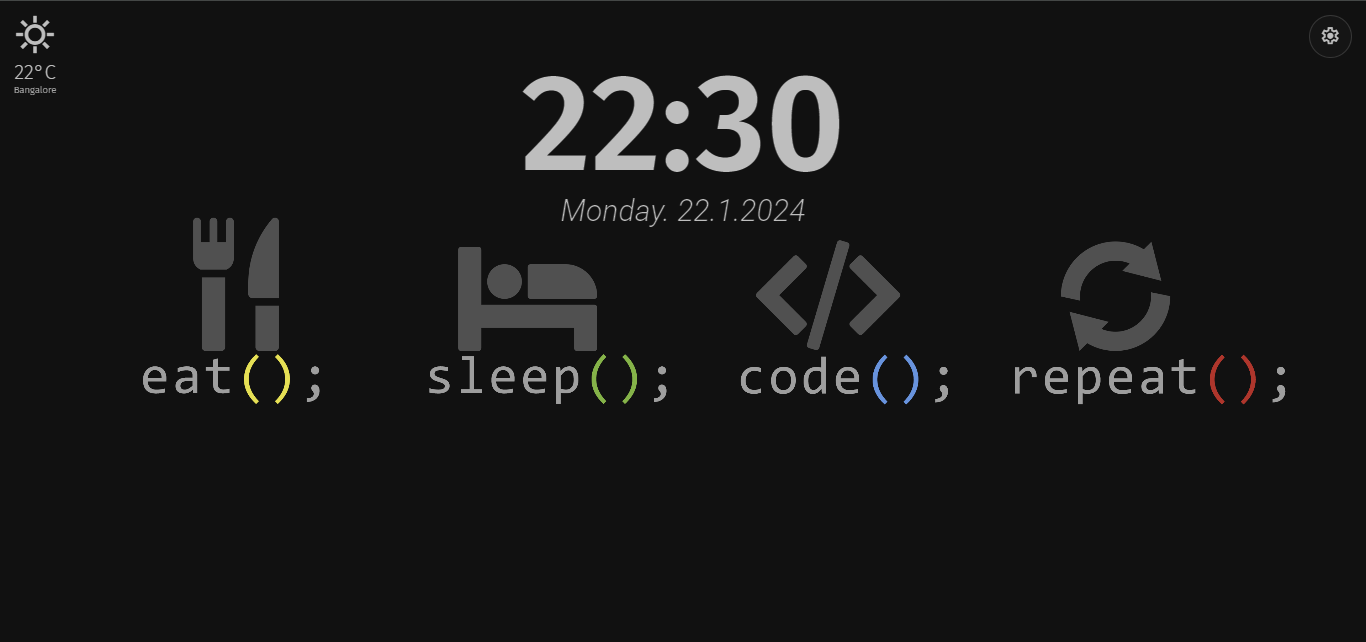
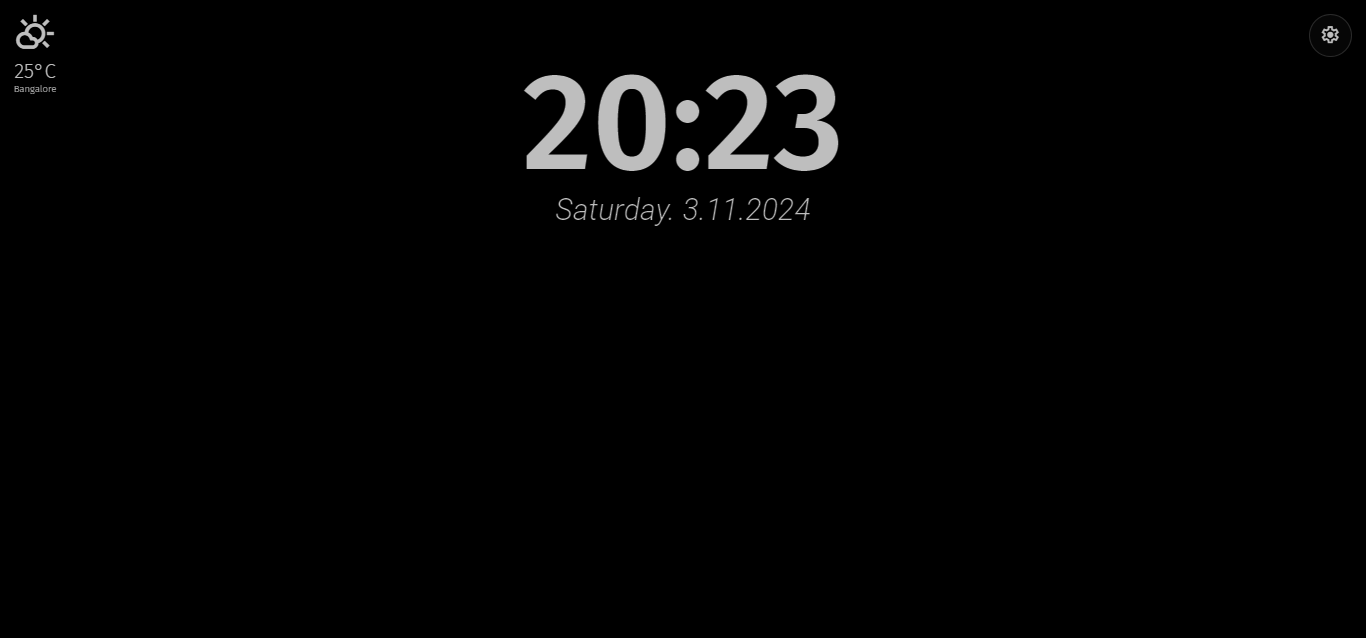
Final commit of v1.10 - Modified default background colour - Added preview images

diff --git a/scripts/shortcutDrawer.js b/scripts/shortcutDrawer.js
@@ -102,58 +102,6 @@ function addShortcutsToBox() {
     );
 }
 
-// deprecated
-// function shortcuts () {
-//     var boxDiv = document.getElementById("box");
-//     chrome.storage.local.get(["shortcuts"]).then((result) => { 
-//         result = result.shortcuts;
-//         if (result.length != 0)
-//             for(var i = 0;i < result.length;i++) {
-//                 var shortcut = document.createElement("div");
-//                 shortcut.setAttribute('style',"max-width:10vw; display:inline-block;")
-//                 var link = document.createElement('a');
-//                 var name = document.createElement('div');
-//                 name.setAttribute("style","margin-top:1.5vw; font-family:FiraExtraLight;")
-//                 name.innerText = result[i]['name']
-//                 var image = document.createElement("img");
-//                 if(online)
-//                     image.setAttribute('src',("https://s2.googleusercontent.com/s2/favicons?domain=" + result[i]['url']));
-//                 image.setAttribute('alt',"");
-//                 link.setAttribute("href",result[i]['url']);
-//                 link.setAttribute("class","button");
-//                 link.appendChild(image);
-//                 shortcut.appendChild(link);
-//                 shortcut.appendChild(name);
-//                 boxDiv.appendChild(shortcut);
-//             } 
-//         else {
-//             var shortcut = document.createElement("div");
-//             shortcut.setAttribute('style',"max-width:10vw; display:inline-block;")
-//             var link = document.createElement('a');
-//             link.setAttribute("href","https://google.com");
-//             link.setAttribute("class","button");
-//             var name = document.createElement('div');
-//             name.setAttribute("style","margin-top:1.5vw; font-family:FiraExtraLight;")
-//             name.innerText = "Google"
-//             if(online) {
-//                 var image = document.createElement("img");
-//                 image.setAttribute('src',("https://s2.googleusercontent.com/s2/favicons?domain=https://google.com"));
-//                 link.appendChild(image);   
-//             }
-//             else {
-//                 var icon = document.createElement("span");
-//                 icon.setAttribute('class',"material-symbols-outlined");
-//                 icon.setAttribute('style',"font-size:1.3vw;");
-//                 icon.innerText = "globe" 
-//                 link.appendChild(icon);   
-//             }
-//             shortcut.appendChild(link);
-//             shortcut.appendChild(name);
-//             boxDiv.appendChild(shortcut);
-//         }
-//     });
-// }
-
 document.addEventListener('mousemove', onMouseUpdate, false);
 document.addEventListener('mouseenter', onMouseUpdate, false);
 
@@ -178,7 +126,7 @@ async function handleSitesBar() {
     
     function closeBar () {
         if (flag == 0) {
-            if(boxPos < 105) {
+            if(boxPos < 110) {
                 document.getElementById("box").style.transform = "translatey("+boxPos+"%)";
                 boxPos += boxPos * 20 / 100;
             }

diff --git a/scripts/settings.js b/scripts/settings.js
@@ -6,6 +6,6 @@ document.getElementById("resetBt").addEventListener('click', function() {
 async function reset () {
     chrome.storage.local.set({"colours":{"primary":"#BEBEBE", "secondary":"#BEBEBE"},
       "shortcuts":{"drawer":true,"links":[]},
-      "background":{"type":"colour","src":"#000000"},
+      "background":{"type":"colour","src":"#0F0F0F"},
       "widgets":{"weather":{"condition":null, "lastUpdatedWeather":0,"location":null,"status":true}}});
 }

diff --git a/scripts/dataIntegrity.js b/scripts/dataIntegrity.js
@@ -17,7 +17,7 @@ async function handleMissingData() {
   })
   chrome.storage.local.get(["background"]).then((result) => { 
       if (result.background == null || result.background == undefined) { 
-          chrome.storage.local.set({"background": {"type":'colour',"src":"#000000"}}); 
+          chrome.storage.local.set({"background": {"type":'colour',"src":"#0F0F0F"}}); 
           console.log("filling in the gaps - bg") 
       } 
   })

diff --git a/style/main.css b/style/main.css
@@ -1,7 +1,7 @@
 :root{
-    --bg:#000000;
-    --primaryClr:#000000;
-    --secondaryClr:#000000;
+    --bg:#0F0F0F;
+    --primaryClr:#0F0F0F;
+    --secondaryClr:#0F0F0F;
 }
 
 @font-face {
